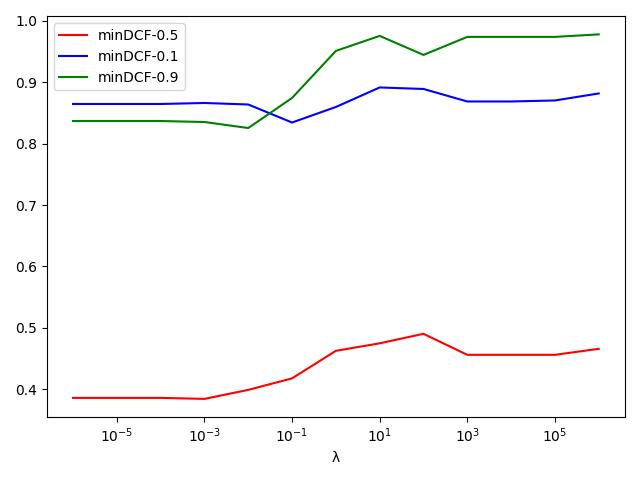
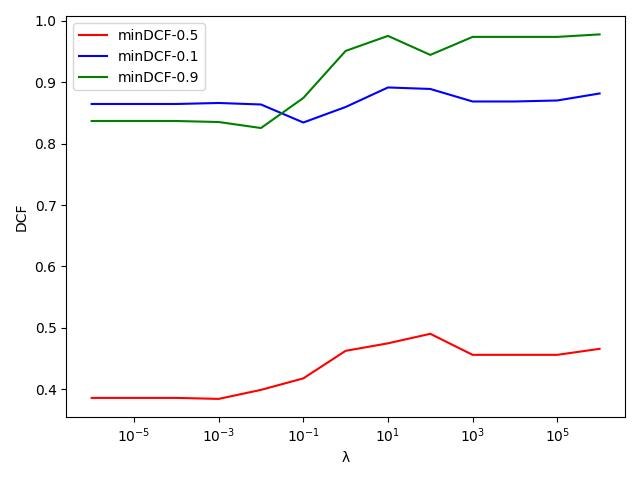
functions for plotting error and ROC curve

diff --git a/functions/cost_computations_functions.py b/functions/cost_computations_functions.py
@@ -1,4 +1,5 @@
 import numpy as np
+from matplotlib import pyplot as plt
 
 
 def compute_conf_matrix_binary(Pred, Labels):
@@ -33,18 +34,6 @@ def compute_min_DCF(scores, labels, pi, Cfn, Cfp):
     return np.array(dcfList).min()
 
 
-def bayes_error_plot(pArray, scores, labels, minCost=False):
-    y = []
-    for p in pArray:
-        pi = 1.0 / (1.0 + np.exp(-p))
-        # print(pi)
-        if minCost:
-            y.append(compute_min_DCF(scores, labels, pi, 1, 1))
-        else:
-            y.append(compute_act_DCF(scores, labels, pi, 1, 1))
-    return np.array(y)
-
-
 def compute_emp_Bayes_binary(CM, pi, Cfn, Cfp):
     fnr = CM[0, 1] / (CM[0, 1] + CM[1, 1])
     fpr = CM[1, 0] / (CM[0, 0] + CM[1, 0])
@@ -58,3 +47,46 @@ def compute_normalized_emp_Bayes(CM, pi, Cfn, Cfp):
 
 def compute_error_rate(CM):
     return (CM[0][1] + CM[1][0]) / CM.sum()
+
+
+def bayes_error_plot_values(pArray, scores, labels, minCost=False):
+    y = []
+    for p in pArray:
+        pi = 1.0 / (1.0 + np.exp(-p))
+        # print(pi)
+        if minCost:
+            y.append(compute_min_DCF(scores, labels, pi, 1, 1))
+        else:
+            y.append(compute_act_DCF(scores, labels, pi, 1, 1))
+    return np.array(y)
+
+
+def bayes_error_plot(pArray, scores, labels):
+    plt.figure()
+    plt.xlabel("prior log-odds")
+    plt.ylabel("DCF value")
+    plt.plot(pArray, bayes_error_plot_values(pArray, scores, labels, minCost=False), color='r', label="actDCF")
+    plt.plot(pArray, bayes_error_plot_values(pArray, scores, labels, minCost=True), color='b', label="minDCF")
+    plt.legend()
+
+
+def plot_ROC(scores, labels):
+    thresholds = np.array(scores)
+    thresholds.sort()
+    thresholds = np.concatenate([np.array([-np.inf]), thresholds, np.array([np.inf])])
+    FPR = np.zeros(thresholds.size)
+    TPR = np.zeros(thresholds.size)
+    for idx, t in enumerate(thresholds):
+        Pred = np.int32(scores > t)
+        Conf = np.zeros((2, 2))
+        for i in range(2):
+            for j in range(2):
+                Conf[i, j] = ((Pred == i) * (labels == j)).sum()
+        TPR[idx] = Conf[1, 1] / (Conf[1, 1] + Conf[0, 1])
+        FPR[idx] = Conf[1, 0] / (Conf[1, 0] + Conf[0, 0])
+
+    plt.figure()
+    plt.grid()
+    plt.xlabel("FPR")
+    plt.ylabel("TPR")
+    plt.plot(FPR, TPR)

diff --git a/log_reg_classifiers.py b/log_reg_classifiers.py
@@ -1,3 +1,5 @@
+import sys
+
 import scipy
 
 from functions.cost_computations_functions import *
@@ -21,9 +23,10 @@ if __name__ == '__main__':
     print("Logistic Regression")
 
     # lRange for minDCF plots
-    # lRange = [1e-6, 1e-5, 1e-4, 1e-3, 0.01, 0.1, 1.0, 10, 100, 1e3, 1e4, 1e5, 1e6]
-    prior_T = 0.9  # change between 0.5, 0.1, 0.9
-    lRange = [1e-4]
+    lRange = [1e-6, 1e-5, 1e-4, 1e-3, 0.01, 0.1, 1.0, 10, 100, 1e3, 1e4, 1e5, 1e6]
+    # lRange = [1e-4]
+
+    prior_T = 0.5  # change between 0.5, 0.1, 0.9
     lArr = np.array(lRange)
     minDCF_0_5 = np.empty([0])
     minDCF_0_1 = np.empty([0])
@@ -56,23 +59,25 @@ if __name__ == '__main__':
             minDCF_0_9 = np.concatenate((minDCF_0_9, np.array([compute_min_DCF(ScoresConcat, L, 0.9, 1, 1)])),
                                         axis=0)
 
-        print(minDCF_0_5[0].round(3))
-        print(minDCF_0_1[0].round(3))
-        print(minDCF_0_9[0].round(3))
+        print(minDCF_0_5.round(3))
+        print(minDCF_0_1.round(3))
+        print(minDCF_0_9.round(3))
 
     # minDCF plots
-    # plt.figure()
-    # plt.xscale('log')
-    # plt.plot(lArr, minDCF_0_5, label='minDCF-0.5', color='r')
-    # plt.plot(lArr, minDCF_0_1, label='minDCF-0.1', color='b')
-    # plt.plot(lArr, minDCF_0_9, label='minDCF-0.9', color='g')
-    #
-    # plt.xlabel('λ')
-    # plt.tight_layout()
-    # plt.legend()
-    # # plt.show()
-    # plt.savefig('plots/minDCF_logReg_raw_data.jpg')
-    # # plt.savefig('plots/minDCF_logReg_gaussianized_data.jpg')
+    plt.figure()
+    plt.xscale('log')
+    plt.plot(lArr, minDCF_0_5, label='minDCF-0.5', color='r')
+    plt.plot(lArr, minDCF_0_1, label='minDCF-0.1', color='b')
+    plt.plot(lArr, minDCF_0_9, label='minDCF-0.9', color='g')
+
+    plt.xlabel('λ')
+    plt.ylabel("DCF")
+    plt.tight_layout()
+    plt.legend()
+    plt.savefig('plots/minDCF_logReg_raw_data.jpg')
+    # plt.savefig('plots/minDCF_logReg_gaussianized_data.jpg')
+    plt.show()
+    sys.exit(0)
 
     print("#####################################################################################")
     print("Logistic Regression + PCA")

diff --git a/mvg_classifiers.py b/mvg_classifiers.py
@@ -1,3 +1,7 @@
+import sys
+
+import matplotlib.pyplot as plt
+
 from functions.cost_computations_functions import *
 from functions.gaussian_classifiers_functions import *
 from functions.kfolds_functions import *
@@ -33,6 +37,12 @@ if __name__ == '__main__':
         print(CM)
         print("minDCF: ", compute_min_DCF(ScoresConcat, L, 0.5, 1, 1).round(3))
         print("error rate: ", compute_error_rate(CM).round(4) * 100, " %")
+
+        bayes_error_plot(np.linspace(-2, 2, 21), ScoresConcat, L)
+        plt.show()
+        plot_ROC(ScoresConcat, L)
+        plt.show()
+        sys.exit(0)
 
         CM = compute_conf_matrix_binary(assign_labels(ScoresConcat, 0.1, 1, 1), L)
         print(CM)
